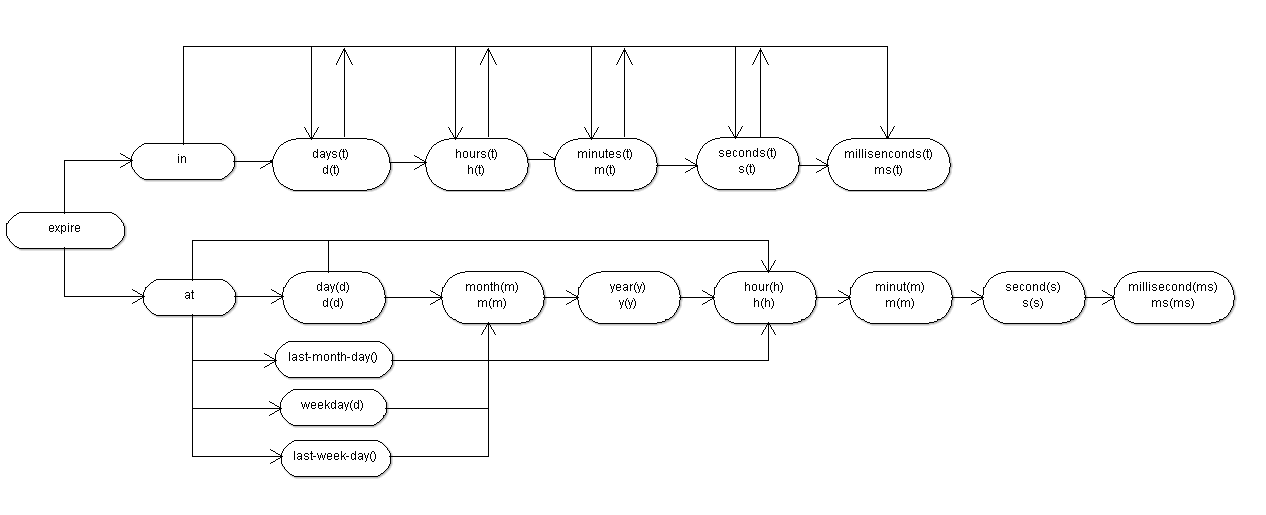
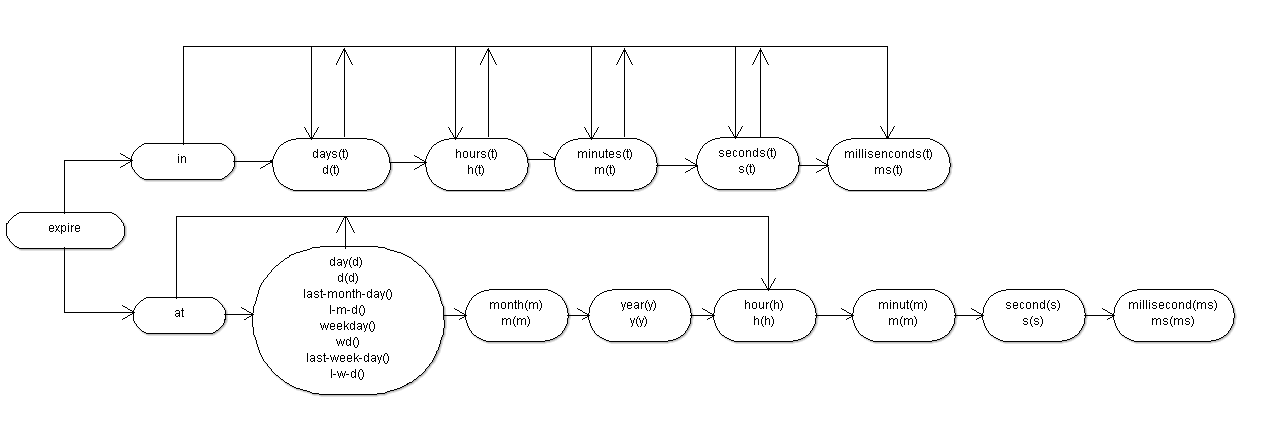
at factory

diff --git a/lib/expire-lambda.js b/lib/expire-lambda.js
@@ -1,13 +1,13 @@
 /**
-* Expire factory
+* Lambda factory
 * @param [{namefunc, mult},{namefunc, mult}...] lambda
 * @param {Object} acumulator
 */
-function expireFactory(lambda, acum) {  
+function lambdaFactory(lambda, acum) {  
         
-    var getFunc =  function (lambda, func){
+    var getFunc =  function (lambda, func, nameFunc){
             return function(t) {
-                return expireFactory(lambda, func(acum,t));
+                return lambdaFactory(lambda, func(acum, t, nameFunc));
             };
     };
     
@@ -15,7 +15,7 @@ function expireFactory(lambda, acum) {
         var miFunc = lambda[i];
         if (miFunc !== undefined) {
             for (var x in miFunc.nameFuncs) {
-				acum[miFunc.nameFuncs[x]] = getFunc(lambda.slice(i+1), miFunc.func);
+				acum[miFunc.nameFuncs[x]] = getFunc(lambda.slice(i+1), miFunc.func, miFunc.nameFuncs[x]);
 			}
         }
     }
@@ -52,7 +52,7 @@ var MyDate = function(milliseconds) {
     return result;
 };
 
-exports.in = expireFactory([
+exports.in = lambdaFactory([
     {nameFuncs:['days','d'],          func:function(acum, t) {return new MyDate(t*24*60*60*1000+acum.inMilliseconds())}},
     {nameFuncs:['hours','h'],         func:function(acum, t) {return new MyDate(t*60*60*1000+acum.inMilliseconds())}},
     {nameFuncs:['minutes','m'],       func:function(acum, t) {return new MyDate(t*60*1000+acum.inMilliseconds())}},
@@ -64,8 +64,24 @@ exports.in = expireFactory([
 /**
 * AT Factory
 */
-exports.at = expireFactory([
-    {nameFuncs:['day','d','last-month-day','weekday','last-week'], func:function(acum, t) {}},
+exports.at = lambdaFactory([
+    {nameFuncs:['day','d','last-month-day','weekday','last-week'], func:function(acum, t, nameFunc) {
+        switch (nameFunc) {
+            case 'day': 
+            case 'd': 
+                break; 
+            case 'last-month-day':
+            case 'l-m-d':
+                break;
+            case 'weekday':
+            case 'wd':
+                break;
+            case 'last-week':
+            case 'l-w':
+                break;
+        }
+        return acum;
+    }},
     {nameFuncs:['month','M'], func:function(acum, t) {}},
     {nameFuncs:['year','y'], func:function(acum, t) {}},
     {nameFuncs:['hour','h'], func:function(acum, t) {}},

diff --git a/test/unit-test.js b/test/unit-test.js
@@ -3,8 +3,9 @@ var assert = require('assert'),
     
 console.log('> init test');
  
+assert.equal(expire.at.d(5).inDays(), 5);
+ 
 assert.equal(expire.in.seconds(10).milliseconds(200).inMilliseconds(), 10*1000+200); 
-
 assert.equal(expire.in.seconds(10).inSeconds(), 10);
 assert.equal(expire.in.s(10).inSeconds(), 10);
 
